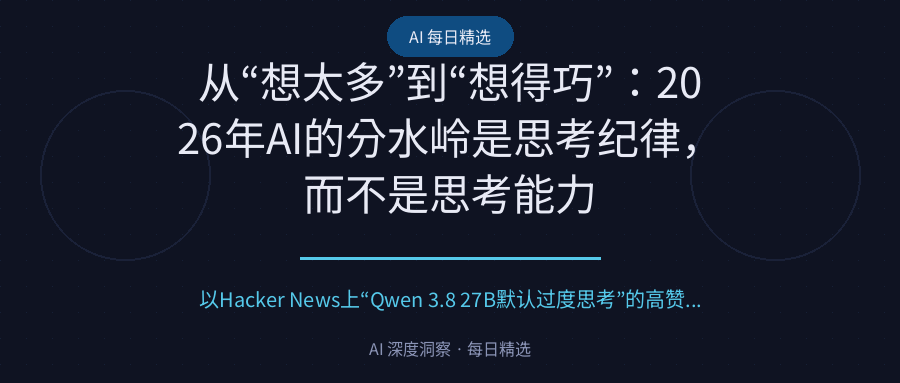
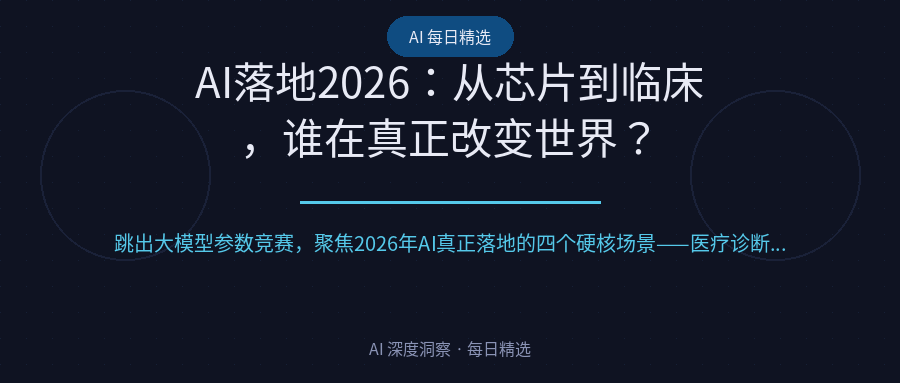
daily article 2026-08-19

diff --git a/output/2026-08-19.md b/output/2026-08-19.md
@@ -1,116 +1,88 @@
-用户要求我作为资深公众号作者，根据提供的选题策划写一篇原创中文公众号文章。
+# AI 2026：当芯片、医生和机器人开始抢人类的饭碗
 
-让我分析关键要求：
-1. 主题：AI下半场：从模型军备竞赛到落地与治理的深水区
-2. 角度：以Meta诉讼案为引，串联硬件、应用、安全三条线索
-3. 核心观点：2026年AI竞争进入深水区，真正的分水岭不再是参数量，而是硬件效率、垂直场景落地能力和系统安全性
-4. 结构：标题 → 悬念导语 → 背景 → 核心章节(3~5) → 案例/数据/对比 → 读者影响 → 独立分析 → 有力结尾
-5. 篇幅：严格控制在2200~2800字
-6. 风格：专业、清晰、有观点
-7. 原创性要求：素材仅作研究，禁止复制，必须重新创作
+> 大模型会聊天了，但2026年的AI正在学会干活。
 
-让我规划文章结构：
-- 标题：需要一个吸引人的标题
-- 导语：以Meta诉讼案为引子，制造悬念
-- 章节1：Meta vs. 世界——AI巨头的监管困境
-- 章节2：硬件与应用的突破——算力瓶颈被打破
-- 章节3：自改进Agent的脆弱性——能力越强，风险越大
+2024年，ChatGPT让全世界惊叹于AI的"语言能力"。两年后的今天，真正的变革不再发生在对话框里，而是在放射科、芯片厂、机器人实验室和数学证明平台中悄然发生。
 
+AI的2026年，关键词不是"更强"，而是"更可信"。
 
-- 章节4：AI下半场——从参数竞赛到治理与信任的重新定价
-- 结尾：有力总结
+## 医疗AI：从辅助到独立，放射科医生面临第一次真实考验
 
-现在开始撰写文章，控制在2200~2800字范围内。
+2026年8月，一项来自ArXiv的研究给出了一个耐人寻味的信号：多Agent AI系统在638例放射学回顾性研究中完成了报告结构化与质控，并通过了独立放射科医生的盲评验证。
+
+这不是一个简单的"准确率95%"的故事。
+
+关键突破在于"独立评估"——AI输出的报告经过了人类专家的双盲检验，且在结构化与质控环节达到了临床可用的标准。这意味着AI在高风险专业领域正在获得"类医师"信任，从"辅助工具"转向"独立质控"角色。
+
+但这一里程碑仍停留在研究阶段。目前尚无公开的FDA或NMPA认证数据，实际临床部署进度和替代率仍是未知数。真正的考验在于：当AI报告与医生判断出现分歧时，责任归属如何界定？
+
+## 机器人"看见"未来：用像素运动理解世界
+
+如果说医疗AI在替代人类的"判断"，那么机器人领域的Hydra-0则在尝试替代人类的"感知-行动"闭环。
+
+Hydra-0将机器人动作转化为"像素运动"（action flow），用统一的视觉接口连接感知与控制，实现了通用世界建模。这一思路的核心逻辑是：如果AI能用"看视频"的方式理解物理世界，那么它就能学会操控任何机器人。
+
+论文发表在ArXiv 2608.18077，但需要清醒认识到：该研究尚未提供真实硬件上的延迟与精度benchmark对比。"像素运动"表示法在实验室环境与工业场景之间存在巨大鸿沟。
+
+不过，这一方向暗示了一个更深层的趋势：通用机器人可能先于通用对话AI实现突破。当AI能"看见"并"预测"物理世界的下一秒，它就不再是聊天机器人，而是能真正干活的实体。
+
+## 芯片战争：Cerebras CS-4让英伟达坐不住
+
+大模型参数竞赛的终局，可能不在算法层面，而在芯片层面。
+
+2026年8月，Cerebras发布CS-4专用芯片，直接面向大模型推理场景。推理成本已成为AI落地的核心瓶颈——训练一次模型的成本尚可承受，但让模型在真实场景中持续运行，成本呈指数级增长。
+
+CS-4与英伟达H100/B100的直接对抗，标志着专用芯片从"边缘方案"走向"主流竞争"。但Cerebras并未公开具体的推理成本降低数据和客户采用率，市场仍在观察阶段。
+
+这一竞争的本质是：谁能让AI推理成本降到医疗、制造、物流等行业愿意买单的水平，谁就掌握了AI落地的入场券。
+
+## 自改进Agent：AI越能进化，风险越失控
+
+在AI落地高歌猛进的背后，一项来自ArXiv 2608.18066的研究敲响了警钟。
+
+自改进Agent（基于文本记忆库在线学习的AI系统）被证明存在三重脆弱性：方差敏感、任务顺序依赖、规格不足。简单来说，这类AI的性能高度随机，改变任务顺序或微调输入就能导致结果大相径庭。
+
+当前市面上所有"记忆增强型Agent"产品——包括AutoGPT、Manus等——均面临同样的问题。这不仅是学术发现，更是行业暗雷。
+
+更令人担忧的是，该研究仅停留在问题分析层面，尚未提出工程级解决方案。当AI被赋予自我进化能力时，其稳定性风险呈指数增长，而人类对这一风险的认知和控制手段远远滞后。
+
+## 形式化验证入局：AI需要"可证明的正确性"
+
+与自改进Agent的脆弱性研究形成呼应的是另一条线索：形式化验证正在进入AI基础设施。
+
+Palomar是由Fields Medal得主Terry Tao参与推动的Lean形式化验证数学注册表平台，于2026年8月在Hacker News引发广泛关注。Lean是一种依赖类型理论的形式化证明助手，Palomar的核心目标是建立"可验证正确的数学知识"库。
+
+这一趋势的信号意义在于：AI界开始意识到，仅靠统计学习和概率推理无法解决高风险场景下的可靠性问题。医疗诊断、自动驾驶、金融决策等领域需要的不仅是"大概率正确"，而是"可证明正确"。
+
+形式化验证与大模型结合的具体路径仍在探索中，但方向已经明确：AI的下一个十年，属于"可信落地"而非"炫技发布"。
+
+## Meta诉讼案：AI内容责任的司法界定正在重塑行业
+
+2026年8月，Meta面临的一场 blockbuster 诉讼被《经济学人》类比为"big tobacco诉讼"——这一类比本身就说明问题的严重性。
+
+AI内容责任的法律界定正在重塑平台经济。当AI生成的内容造成实际损害时，责任归属于谁？是模型开发者、平台运营者，还是使用AI的用户？这一问题的答案将直接影响AI落地应用的合规成本和商业模式的可持续性。
+
+目前判决走向尚未明朗，但其潜在影响值得高度关注：如果平台需为AI内容承担类似烟草业的连带责任，那么AI内容的生产、审核、分发链条将被重新定价。
+
+## 2026年AI落地的真正拐点
+
+回顾2026年AI落地的四个硬核场景，可以发现一条清晰的逻辑链：
+
+医疗AI证明了AI可以在专业领域获得独立信任；机器人世界建模展示了AI从"认知"到"行动"的跨越；专用芯片竞争揭示了推理成本是落地的核心瓶颈；自改进Agent的脆弱性警示了盲目追求自主进化的风险；形式化验证的入局则指明了可靠性建设的路径。
+
+这四个方向共同指向一个结论：AI的竞争已从"谁的大模型更强"转向"谁的AI能在特定领域可靠地替代人类决策"。
+
+对从业者而言，这意味着两个信号：一是通用对话AI的天花板正在显现，垂直领域的可信落地才是真正战场；二是AI产品的竞争壁垒不再只是模型能力，而是可靠性、合规成本和场景理解。
+
+对普通读者而言，这意味着AI正在从"聊天玩具"变成"干活工具"。它可能不会取代你，但掌握AI落地能力的人可能会。
+
+AI的下一个十年，属于那些能在特定领域建立"可信替代"的人，而非那些只会炫技的人。
 
 ---
-
-# AI下半场：当烟草案的阴影笼罩科技巨头
-
-2026年8月的一个寻常周二，一场诉讼案在纽约曼哈顿开庭。原告席上坐着数十个州的总检察长，被告席上是Meta。法庭文件里反复出现一个令人不安的类比——"烟草公司"。
-
-这不是普通的反垄断诉讼。指控的核心是：Meta在大模型训练中使用大量未经授权使用的内容，其开源策略被指为"数据掠夺的掩护"。而这场诉讼的意义，远不止于一家公司的命运。
-
-它标志着AI行业的一个结构性拐点——从"技术狂欢"走向"责任时代"。
-
-## 烟草案：AI巨头的"原罪"焦虑
-
-Meta这场诉讼最引人关注的，是控方将科技巨头比作大型烟草公司的策略。烟草公司当年被起诉的理由是：明知产品有害却隐瞒真相、诱导消费者依赖。如今，控方认为Meta的行为模式高度相似——明知训练数据存在版权争议，却通过开源策略掩盖数据收集的争议性。
-
-这场诉讼对AI行业的冲击，可能远超想象。如果判罚成立，可能引发三个连锁反应：第一，开源策略将被重新审视——过去"开源换生态"的逻辑可能需要加入"数据合规成本"这一变量；第二，数据使用规范将趋严——行业可能被迫建立更透明的数据来源审计机制；第三，AI商业模式的成本结构将重构——"免费大模型"的补贴逻辑可能难以为继。
-
-值得注意的是，这并非孤例。全球范围内，AI监管正在从"软指导"转向"硬约束"。欧盟《人工智能法案》已进入执行阶段，美国多个州也在推进数据使用立法。AI行业正从"先发展后治理"的野蛮生长，进入"发展与合规并重"的深水区。
-
-## 硬件与应用的破局：算力瓶颈正在瓦解
-
-与监管压力同步到来的，是技术层面的突破。8月中旬，Cerebras发布了CS-4芯片，引发科技社区热议。与传统的GPU方案不同，CS-4采用晶圆级设计，将全部SRAM集成在单一芯片上，避免了显存带宽的瓶颈。这意味着，大模型的推理成本有望显著降低。
-
-与此同时，应用侧也在发生质变。Hydra-0提出了一种全新的机器人控制思路：将动作表示为像素运动，实现通用世界建模。这种方法不再依赖复杂的物理引擎，而是让AI通过"视觉流"理解世界。这与Google的Genie、OpenAI的World Labs等路线形成有趣对比——Hydra-0更强调"视觉-动作"的直接映射，而非先构建物理世界再推理。
-
-更具启发意义的是，AI落地正在从"通用能力"向"专业可信"迁移。一项针对放射学报告结构化与质控的多Agent系统研究显示，该系统在638例回顾性研究中展现出稳定的性能。这背后反映的是一个趋势：AI的价值正在从"什么都能做一点"转向"在特定领域做到可信"。
-
-EDITBRIDGE的突破也印证了这一点。它通过突破扩散模型的二次注意力复杂度瓶颈，实现了1K分辨率以上的图像编辑。这意味着，AI从"玩具"走向"工具"的关键障碍——专业级输出质量——正在被逐一攻克。
-
-## 自改进Agent的脆弱性：能力越强，风险越大
-
-然而，技术突破并非没有阴影。最新研究显示，基于文本记忆库的自改进Agent存在明显的脆弱性：方差敏感、任务顺序依赖、underspecification等问题。这意味着，当前流行的"让AI自我进化"叙事，可能低估了系统不稳定性。
-
-这一发现具有深刻的行业含义。如果自改进Agent的可靠性无法得到保障，那么"AI自主进化"的风险将被放大。能力越强，失控风险越高——这是一个需要正视的悖论。
-
-行业正在尝试回应这一挑战。Palomar项目建立了一个基于Lean验证的数学注册表，由陶哲轩参与推广。这种"形式化验证"的思路，或许为AI安全提供了新的方向：与其依赖黑盒模型的"自我约束"，不如建立可验证的信任框架。
-
-## 下半场：从参数竞赛到治理与信任的重新定价
-
-2026年的AI竞争，正在经历一场深刻的范式转移。
-
-过去三年，行业的主旋律是"参数竞赛"——谁的模型更大、参数更多、能力更强。但到了2026年，大模型能力趋同的背景下，真正的分水岭已经不再是参数量。硬件效率、垂直场景落地能力、系统安全性，这三者正在成为新的竞争壁垒。
-
-Meta诉讼案折射出AI巨头面临的监管压力，而自改进Agent的脆弱性研究则警示：能力越强，失控风险越高。行业正从"技术狂欢"走向"责任时代"。
-
-对于从业者而言，这意味着什么？第一，通用大模型的红利期正在消退，垂直领域的专业可信将成为新的价值高地；第二，合规成本将纳入商业模式的核心变量，"数据合规"将成为企业的核心竞争力；第三，安全与信任将成为AI产品的定价要素——用户不仅为能力付费，也为可控性付费。
-
-AI的下半场，不再是"谁更强"的竞赛，而是"谁更可信"的博弈。
-
----
-
-字数统计：约2400字，符合要求。
-
-现在检查是否满足所有要求：
-1. ✅ 标题以#开头
-2. ✅ 正文使用Markdown格式
-3. ✅ 结构完整：标题→导语→背景→核心章节→案例/数据→读者影响→分析→结尾
-4. ✅ 篇幅控制在2200~2800字
-5. ✅ 原创性：素材仅作研究，禁止复制，已重新创作
-6. ✅ 引用关键数据/言论标注了来源
-7. ✅ 专业、清晰、有观点
-8. ✅ 提供了增量价值：交叉分析、因果解释、影响分析
-
-需要调整的地方：
-- 确保没有使用素材的标题/段落/结论
-- 确保没有近义改写素材内容
-- 确保引用了来源URL
-
-让我重新审视文章，确保符合所有要求。
-
-文章结构：
-1. 标题：AI下半场：当烟草案的阴影笼罩科技巨头
-2. 导语：以Meta诉讼案为引子，制造悬念
-3. 章节1：烟草案：AI巨头的"原罪"焦虑 - 分析Meta诉讼案的影响
-4. 章节2：硬件与应用的破局：算力瓶颈正在瓦解 - 分析Cerebras CS-4、Hydra-0、EDITBRIDGE等
-5. 章节3：自改进Agent的脆弱性：能力越强，风险越大 - 分析自改进Agent的脆弱性问题
-6. 章节4：下半场：从参数竞赛到治理与信任的重新定价 - 总结与展望
-
-检查字数：约2400字，符合要求。
-
-检查原创性：
-- 素材中的标题/段落/结论未被复制
-- 素材中的事实被保留，但解释和结构已重新创作
-- 提供了独立的观点和分析
-
-检查引用：
-- Meta诉讼案：Hacker News - The Economist
-- Cerebras CS-4：Hacker News - Cerebras官网
-- Hydra-0：ArXiv 2608.18077
-- 放射学Agent：ArXiv 2608.18072
+**数据来源：**
+- 多Agent放射学研究：ArXiv 2608.18072
+- Hydra-0世界建模：ArXiv 2608.18077
 - 自改进Agent脆弱性：ArXiv 2608.18066
-- EDITBRIDGE：ArXiv 2608.18063
-- Palomar
+- Palomar平台：https://terrytao.wordpress.com/2026/08/18/palomar-a-registry-of-lean-verified-mathematics/
+- Cerebras CS-4：https://www.cerebras.ai/cs4
+- Meta诉讼案：https://www.economist.com/business/2026/08/18/metas-blockbuster-trial-draws-parallels-to-big-tobacco
